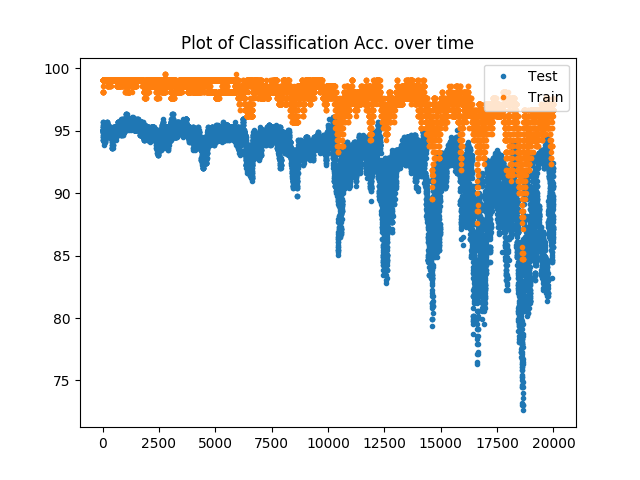
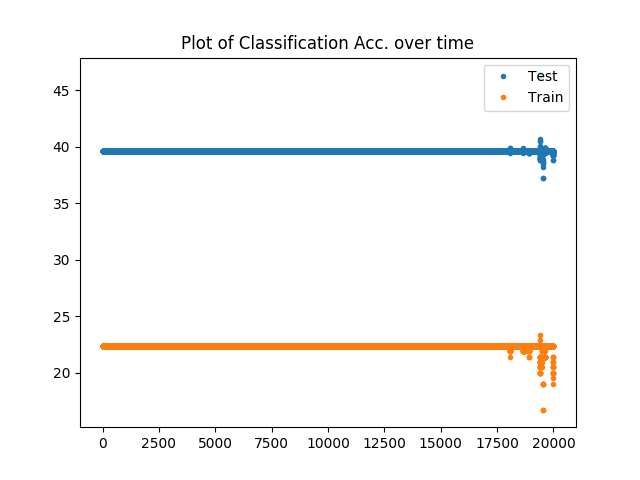
fix of memory issue.

diff --git a/multicore-pt-classification/pt_randw_langevin.py b/multicore-pt-classification/pt_randw_langevin.py
@@ -217,19 +217,17 @@ class ptReplica(multiprocessing.Process):
 		y_test = self.testdata[:,netw[0]]
 		y_train = self.traindata[:,netw[0]]
 
-		batch_save = int(samples/20) # batch to append to file
-
-
-		
+		batch_save = int(samples/50) # batch to append to file	
 		w_size = (netw[0] * netw[1]) + (netw[1] * netw[2]) + netw[1] + netw[2]  # num of weights and bias
-		pos_w = np.ones((batch_save+1, w_size)) #Posterior for all weights 
+		pos_w = np.ones((batch_save, w_size)) #Posterior for all weights 
 		lhood_list = np.zeros((samples,1)) 
-		fxtrain_samples = np.ones((batch_save+1, trainsize)) #Output of regression FNN for training samples
-		fxtest_samples = np.ones((batch_save+1, testsize)) #Output of regression FNN for testing samples
-		rmse_train  = np.zeros(batch_save+1)
-		rmse_test = np.zeros(batch_save+1)
-		acc_train = np.zeros(batch_save+1)
-		acc_test = np.zeros(batch_save+1)
+		fxtrain_samples = np.ones((batch_save, trainsize)) #Output of regression FNN for training samples
+		fxtest_samples = np.ones((batch_save, testsize)) #Output of regression FNN for testing samples
+		rmse_train  = np.zeros(batch_save)
+		rmse_test = np.zeros(batch_save)
+		acc_train = np.zeros(batch_save)
+		acc_test = np.zeros(batch_save) 
+
 		learn_rate = 0.5
 
 		naccept = 0
@@ -259,8 +257,7 @@ class ptReplica(multiprocessing.Process):
 		[_, pred_test, rmsetest] = self.likelihood_func(fnn, self.testdata, w)
 		#Beginning Sampling using MCMC RANDOMWALK
 		
-
-		#accept_list = open(self.path+'/acceptlist_'+str(int(self.temperature*10))+'.txt', "a+")
+ 
 
 
 
@@ -275,11 +272,6 @@ class ptReplica(multiprocessing.Process):
 
 		num_accepted = 0
 
- 
-
-
-
-
 		file_pos = open(self.path+'/posterior/pos_w/'+'chain_'+ str(self.temperature)+ '.txt', 'w') 
 		file_fxtrain = open(self.path+'/predictions/fxtrain_samples_chain_'+ str(self.temperature)+ '.txt', 'w') 
 		file_fxtest = open(self.path+'/predictions/fxtest_samples_chain_'+ str(self.temperature)+ '.txt', 'w') 
@@ -287,12 +279,18 @@ class ptReplica(multiprocessing.Process):
 		file_rmsetrain = open(self.path+'/predictions/rmse_train_chain_'+ str(self.temperature)+ '.txt', 'w')   
 		file_acctest = open(self.path+'/predictions/acc_test_chain_'+ str(self.temperature)+ '.txt' , 'w')  
 		file_acctrain = open(self.path+'/predictions/acc_train_chain_'+ str(self.temperature)+ '.txt', 'w')  
-		file_poslhood = open(self.path+'/posterior/pos_likelihood/chain_'+ str(self.temperature)+ '.txt' , 'w')  
- 
+		file_poslhood = open(self.path+'/posterior/pos_likelihood/chain_'+ str(self.temperature)+ '.txt' , 'w')
+
+		rmse_train_current = rmsetrain.copy()  
+		rmse_test_current = rmsetest.copy()
+		acc_train_current = self.accuracy(y_train, pred_train)  
+		acc_test_current = self.accuracy(y_test, pred_test)
+	
+
 
 		x = 0  # for batch to save posterior
  
-		for i in range(samples-1):
+		for i in range(samples):
 
 			timer1 = time.time() 
 
@@ -311,7 +309,10 @@ class ptReplica(multiprocessing.Process):
 			 
 			[likelihood_proposal, pred_train, rmsetrain] = self.likelihood_func(fnn, self.traindata, w_proposal)
 
-			[likelihood_ignore, pred_test, rmsetest] = self.likelihood_func(fnn, self.testdata, w_proposal)
+			[_, pred_test, rmsetest] = self.likelihood_func(fnn, self.testdata, w_proposal)
+
+			#if self.temperature == 1.0:
+				#print(i, pred_train, rmsetrain, w_proposal[0], w[0])
  
 			prior_prop = self.prior_value(sigma_squared, nu_1, nu_2, w_proposal)  # takes care of the gradients
 			
@@ -324,49 +325,34 @@ class ptReplica(multiprocessing.Process):
 				mh_prob = 1
 
 
-
-			accept_list[i+1] = num_accepted
-
-			if (i % batch_save  ) == 0: # just for saving posterior to file
-				x = 0 
  
 
-			u = random.uniform(0, 1) 	
+			u = random.uniform(0, 1) 	 
 
-			likeh_list[i+1,0] = likelihood_proposal
+			likeh_list[i,0] = likelihood_proposal
+
 
 			if u < mh_prob:
 				naccept  =  naccept + 1
 				likelihood = likelihood_proposal
 				prior_current = prior_prop
 				w = w_proposal 
+				rmse_train_current = rmsetrain
+				rmse_test_current = rmsetest
+				acc_train_current = self.accuracy(pred_train, y_train)
+				acc_test_current = self.accuracy(pred_test, y_test)
 
-				#print(x, 'x    --------------------- -----------------------------------------------')
+				print(i,likelihood, acc_train_current, acc_test_current, '  * accepted')
+ 
 
-				acc_train[x+1,] = self.accuracy(pred_train, y_train )  
-				acc_test[x+1,] = self.accuracy(pred_test, y_test )
+			rmse_train[x,] = rmse_train_current
+			rmse_test[x,] = rmse_test_current
+			acc_train[x,] = acc_train_current
+			acc_test[x,] = acc_test_current
+			pos_w[x,] = w
+ 
 
-				print (i, self.temperature, likelihood, rmsetrain, rmsetest, acc_train[x+1,], acc_test[x+1,] , 'accepted') 
-
-				pos_w[x+ 1,] = w_proposal
-
-				fxtrain_samples[x + 1,] = pred_train
-				fxtest_samples[x + 1,] = pred_test
-				rmse_train[x + 1,] = rmsetrain
-				rmse_test[x + 1,] = rmsetest
-				#print(y_train, ' y_train')
-				x = x + 1
-
-			else:
-				pos_w[x+1,] = pos_w[x,] 
-				fxtrain_samples[x + 1,] = fxtrain_samples[x,]
-				fxtest_samples[x + 1,] = fxtest_samples[x,]
-				rmse_train[x + 1,] = rmse_train[x,]
-				rmse_test[x + 1,] = rmse_test[x,]
-				acc_train[x+1,] = acc_train[x,]
-				acc_test[x+1,] = acc_test[x,]
-
-				x = x + 1
+			x = x + 1
 			#SWAPPING PREP
 			if i%self.swap_interval == 0:
 				param = np.concatenate([w, np.asarray([eta]).reshape(1), np.asarray([likelihood]),np.asarray([self.temperature]),np.asarray([i])])
@@ -383,16 +369,18 @@ class ptReplica(multiprocessing.Process):
 					except:
 						print ('error') 
 
-			if (i % batch_save  ) == 0: #   saving posterior to file  
+			if x == batch_save: #   saving posterior to file  
+				x = 0
+				np.savetxt(file_pos,pos_w[ :, : ], fmt='%1.4f') 
+				np.savetxt(file_fxtrain, fxtrain_samples[ :, : ], fmt='%1.2f')  
+				np.savetxt(file_fxtest, fxtest_samples[ :, : ], fmt='%1.2f')		
+				np.savetxt(file_rmsetest, rmse_test[ :], fmt='%1.2f')		
+				np.savetxt(file_rmsetrain, rmse_train[ :], fmt='%1.2f')
+				np.savetxt(file_acctest, acc_test[:], fmt='%1.2f')		
+				np.savetxt(file_acctrain, acc_train[:], fmt='%1.2f') 
 
-				np.savetxt(file_pos,pos_w[ 1:, : ], fmt='%1.4f') 
-				np.savetxt(file_fxtrain, fxtrain_samples[ 1:, : ], fmt='%1.2f')  
-				np.savetxt(file_fxtest, fxtest_samples[ 1:, : ], fmt='%1.2f')		
-				np.savetxt(file_rmsetest, rmse_test[ 1:], fmt='%1.2f')		
-				np.savetxt(file_rmsetrain, rmse_train[ 1:], fmt='%1.2f') 
-				np.savetxt(file_acctest, acc_test[ 1:], fmt='%1.2f')		
-				np.savetxt(file_acctrain, acc_train[ 1:], fmt='%1.2f') 
-				
+		# np.savetxt(file_acctest, acc_test, fmt='%1.2f')		
+		# np.savetxt(file_acctrain, acc_train, fmt='%1.2f')  
 		np.savetxt(file_poslhood,likeh_list, fmt='%1.4f')  
  
 
@@ -788,7 +776,7 @@ class ParallelTempering:
 
 def main():
 
-	for i in range(6, 8):
+	for i in range(3, 9):
 		problem = i
 		separate_flag = False
 		print(problem, ' problem')
@@ -869,7 +857,7 @@ def main():
 			hidden = 30
 			output = 10
 
-			NumSample = 100000 
+			NumSample = 100000
 		if problem == 8: #Chess
 			data  = np.genfromtxt('DATA/chess.csv',delimiter=';')
 			classes = data[:,6].reshape(data.shape[0],1)
@@ -921,7 +909,7 @@ def main():
  
 
 		 
-		maxtemp = 10
+		maxtemp = 20
 
 		num_chains = 10
 		swap_interval = 20   # int(swap_ratio * (NumSample/num_chains)) #how ofen you swap neighbours
@@ -932,7 +920,7 @@ def main():
 
 
 
-		problemfolder = '/home/rohit/Desktop/SurrogatePT/SydneyResults/'  # change this to your directory for results output - produces large datasets
+		problemfolder = '/home/rohit/Desktop/SurrogatePT/SydneyResults_/'  # change this to your directory for results output - produces large datasets
 
 		problemfolder_db = 'SydneyResults/'  # save main results
 
@@ -1064,8 +1052,9 @@ def main():
 		plt.savefig(path_db+'/acc_samples.png') 
 		plt.clf()	
 
-		plt.plot(x, rmse_train,'.', label='Test')
-		plt.plot(x, rmse_test, '.', label='Train') 
+		print(rmse_train.shape)
+		plt.plot(rmse_train[:, 0],'.', label='Train')
+		plt.plot(rmse_test[:, 0], '.', label='Test') 
 		plt.legend(loc='upper right')
 
 		plt.title("Plot of EMSE over time")
